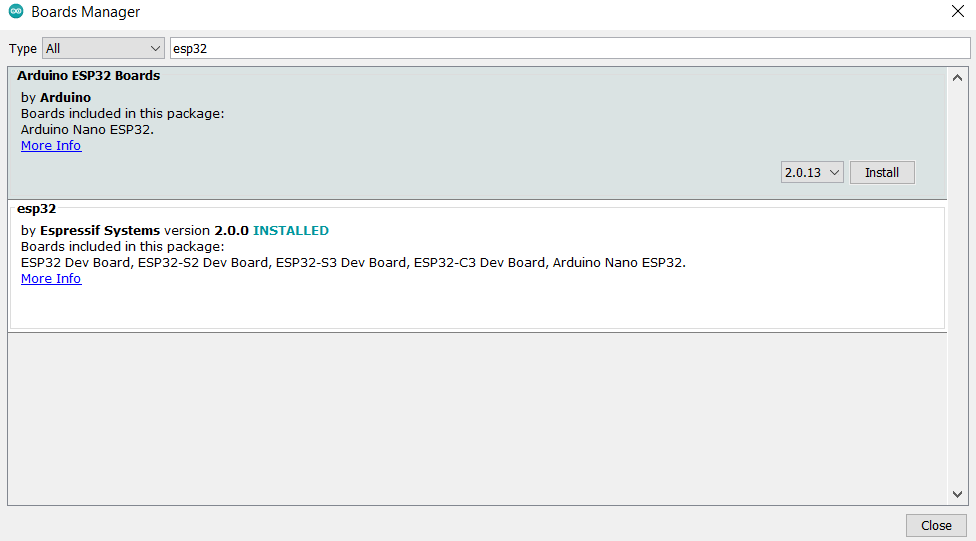
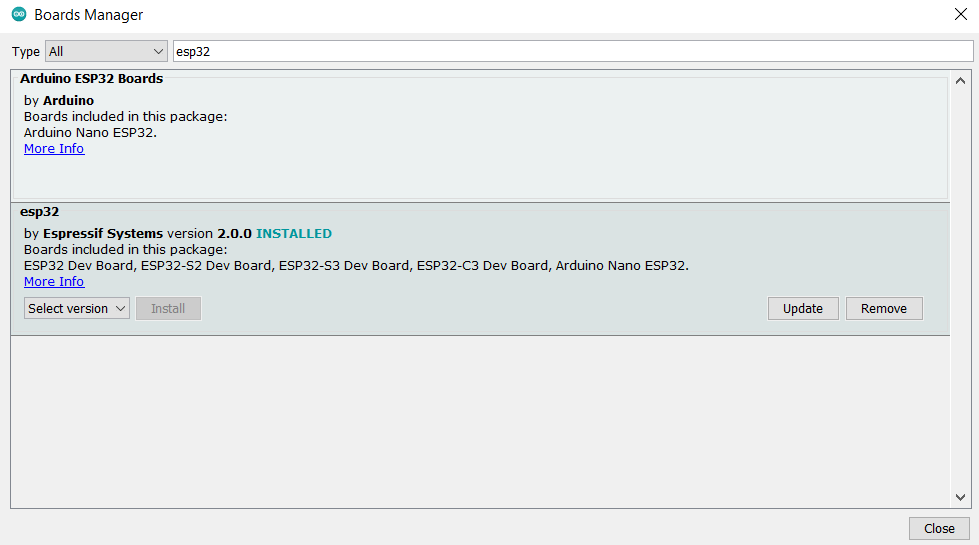
fixed images and comments .md

diff --git a/README.md b/README.md
@@ -75,7 +75,7 @@ We support all the same original features of the library.Here you can find the o
 
 ### Arduino ESP32 core 
 
-We use the core version 2.0.13 ,you can copy this link to Arduino preference 
+We use the core version 2.0.0 ,you can copy this link to Arduino preference 
 
 https://raw.githubusercontent.com/espressif/arduino-esp32/gh-pages/package_esp32_index.json
 
